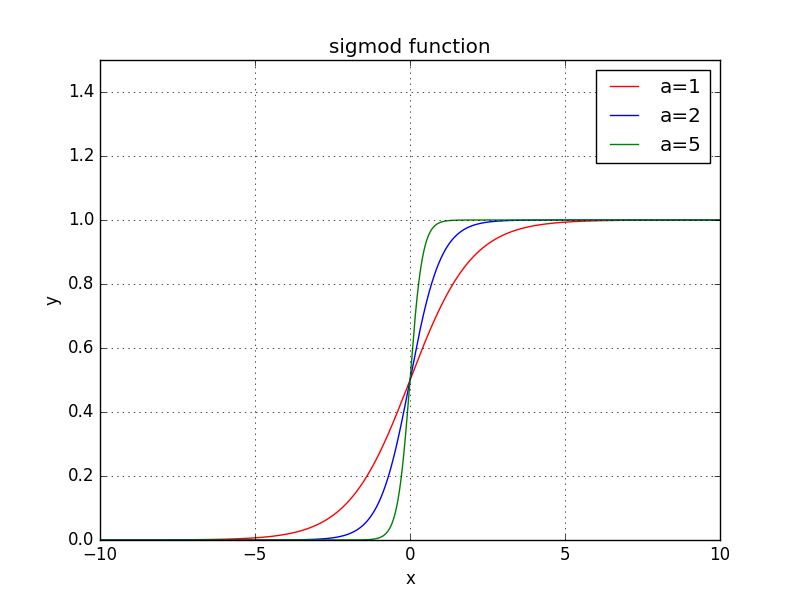
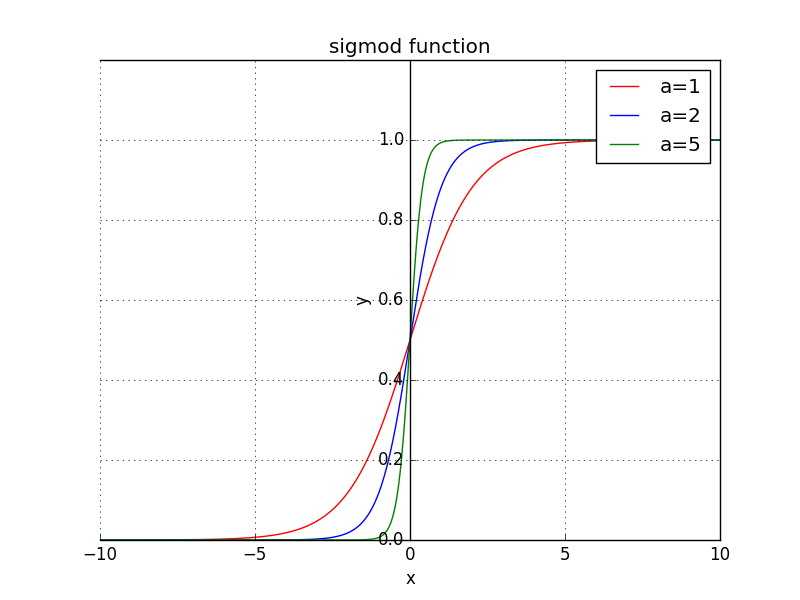
axis

diff --git a/test.py b/test.py
@@ -1,18 +1,21 @@
+import numpy as np
 import matplotlib.pyplot as plt
-plt.figure(1)                # the first figure
-plt.subplot(211)             # the first subplot in the first figure
-plt.plot([1, 2, 3])
-plt.subplot(212)             # the second subplot in the first figure
-plt.plot([4, 5, 6])
 
+#plt.style.use('mystyle')
+# set the size of canvas
+fig=plt.figure(figsize=(4,4))
+ax=fig.add_subplot(111)
 
-plt.figure(2)                # a second figure
-plt.plot([4, 5, 6])   # creates a subplot(111) by default
-plt.title("The second picture")
-plt.axes([1,1,6,9])
+ax.spines['top'].set_color('none')
+ax.spines['right'].set_color('none')
 
-plt.figure(1)                # figure 1 current; subplot(212) still current
-plt.subplot(211)             # make subplot(211) in figure1 current
-plt.title('Easy as 1, 2, 3') # subplot 211 title
+ax.xaxis.set_ticks_position('bottom')
+ax.spines['bottom'].set_position(('data',0))
+ax.yaxis.set_ticks_position('left')
+ax.spines['left'].set_position(('data',0))
+
+theta=np.arange(0,2*np.pi,2*np.pi/100)
+x=np.cos(theta)
+y=np.sin(theta)
+ax.plot(x,y)
 plt.show()
-plt.close()

diff --git a/sigmod function.py b/sigmod function.py
@@ -7,13 +7,24 @@ a3=5
 y1=1/(1+np.exp(-1*x*a1))
 y2=1/(1+np.exp(-1*x*a2))
 y3=1/(1+np.exp(-1*x*a3))
-plt.plot(x,y1,'r',label="a=1")
-plt.plot(x,y2,'b',label='a=2')
-plt.plot(x,y3,'g',label="a=5",)
+
+fig=plt.figure()
+ax=fig.add_subplot(111)
+
+ax.plot(x,y1,'r',label="a=1")
+ax.plot(x,y2,'b',label='a=2')
+ax.plot(x,y3,'g',label="a=5",)
+ax.xaxis.set_ticks_position('bottom')
+ax.spines['bottom'].set_position(('data',0))
+ax.yaxis.set_ticks_position('left')
+ax.spines['left'].set_position(('data',0))
+
 plt.title("sigmod function")
-plt.ylim(0,1.5)
+plt.ylim(0,1.2)
 plt.xlabel('x')
 plt.ylabel('y')
+
+
 plt.grid()
 plt.legend()
 
